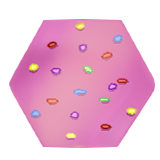
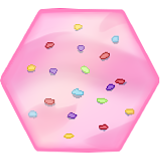
implemented wall pictures

diff --git a/public/javascripts/ui/renderers/Tile.js b/public/javascripts/ui/renderers/Tile.js
@@ -59,8 +59,8 @@ class Tile {
     }
 
     draw() {
-        //push();
-        //translate(this.screenX, this.screenY);
+        push();
+        translate(this.screenX, this.screenY);
         // Placement
         if (this.type == 3) {
             if (GameInfo.game.player.state == "Placement") {
@@ -69,27 +69,29 @@ class Tile {
             else {
                 fill('rgba(246, 255, 253, 1)');
             }
+            image(GameInfo.images.tiles.placement, -GameInfo.images.tiles.normal.width * 0.5, -GameInfo.images.tiles.normal.height * 0.5);
         }
         // Wall
         else if (this.type == 2) {
             fill('rgba(220, 135, 255, 1)');
+            image(GameInfo.images.tiles.wall, -GameInfo.images.tiles.wall.width * 0.5, -GameInfo.images.tiles.wall.height * 0.5);
         }
         // Normal
         else if (this.type == 1) {
             fill('rgba(246, 255, 253, 1)');
             
-            //image(GameInfo.images.tiles.normal, -GameInfo.images.tiles.normal.width * 0.5, -GameInfo.images.tiles.normal.height * 0.5);
+            image(GameInfo.images.tiles.normal, -GameInfo.images.tiles.normal.width * 0.5, -GameInfo.images.tiles.normal.height * 0.5);
         }
         // If something went wrong, print black
         else {
             fill('rgba(0, 0, 0, 1)');
         }
-        //pop();
+        pop();
         // Outline
         stroke(0);
         strokeWeight(5);
         push();
-            Tile.drawSimpleTile(this.screenX, this.screenY);
+            //Tile.drawSimpleTile(this.screenX, this.screenY);
 
             // Debug Text Inside
             fill(0, 0, 0);

diff --git a/public/javascripts/ui/renderers/Map.js b/public/javascripts/ui/renderers/Map.js
@@ -57,8 +57,24 @@ class Map {
         translate(this.drawStartX, this.drawStartY);
 
         for (let i = 0; i < this.tiles.length; i++) {
-            for (let j = 0; j < this.tiles[i].length; j++) {
-                this.tiles[i][j].draw()
+            for (let j = this.tiles[i].length - 1; j >= 0; j--) {
+                if (this.tiles[i][j].type != 2) {
+                    this.tiles[i][j].draw();
+                }
+            }
+        }
+
+        for (let j = this.height - 1; j >= 0; j--) {
+            for (let i = 0; i < this.width; i = i + 2) {
+                if (this.tiles[i][j].type == 2) {
+                    this.tiles[i][j].draw();
+                }
+            }
+
+            for (let i = 1; i < this.width; i = i + 2) {
+                if (this.tiles[i][j].type == 2) {
+                    this.tiles[i][j].draw();
+                }
             }
         }
         pop();

diff --git a/public/javascripts/ui/gamelib.js b/public/javascripts/ui/gamelib.js
@@ -19,7 +19,9 @@ function preload() {
 
     // Map
     GameInfo.images.tiles = {};
-    GameInfo.images.tiles.normal = loadImage("../../assets/Tiles/Floor_Tile_1_Full.png");
+    GameInfo.images.tiles.normal = loadImage("../../assets/Tiles/Floor_Tile_2_Full.png");
+    GameInfo.images.tiles.wall = loadImage("../../assets/Tiles/Wall_Tile_1_Full.png");
+    GameInfo.images.tiles.placement = loadImage("../../assets/Tiles/Floor_Tile_1_Full.png");
     
 
     // Cats
@@ -83,6 +85,8 @@ function preload() {
 
 async function resizeImages() {
     GameInfo.images.tiles.normal.resize(GameInfo.images.tiles.normal.width * 2, 0);
+    GameInfo.images.tiles.wall.resize(GameInfo.images.tiles.wall.width * 2, 0);
+    GameInfo.images.tiles.placement.resize(GameInfo.images.tiles.placement.width * 2, 0);
 }
 
 async function setup() {
